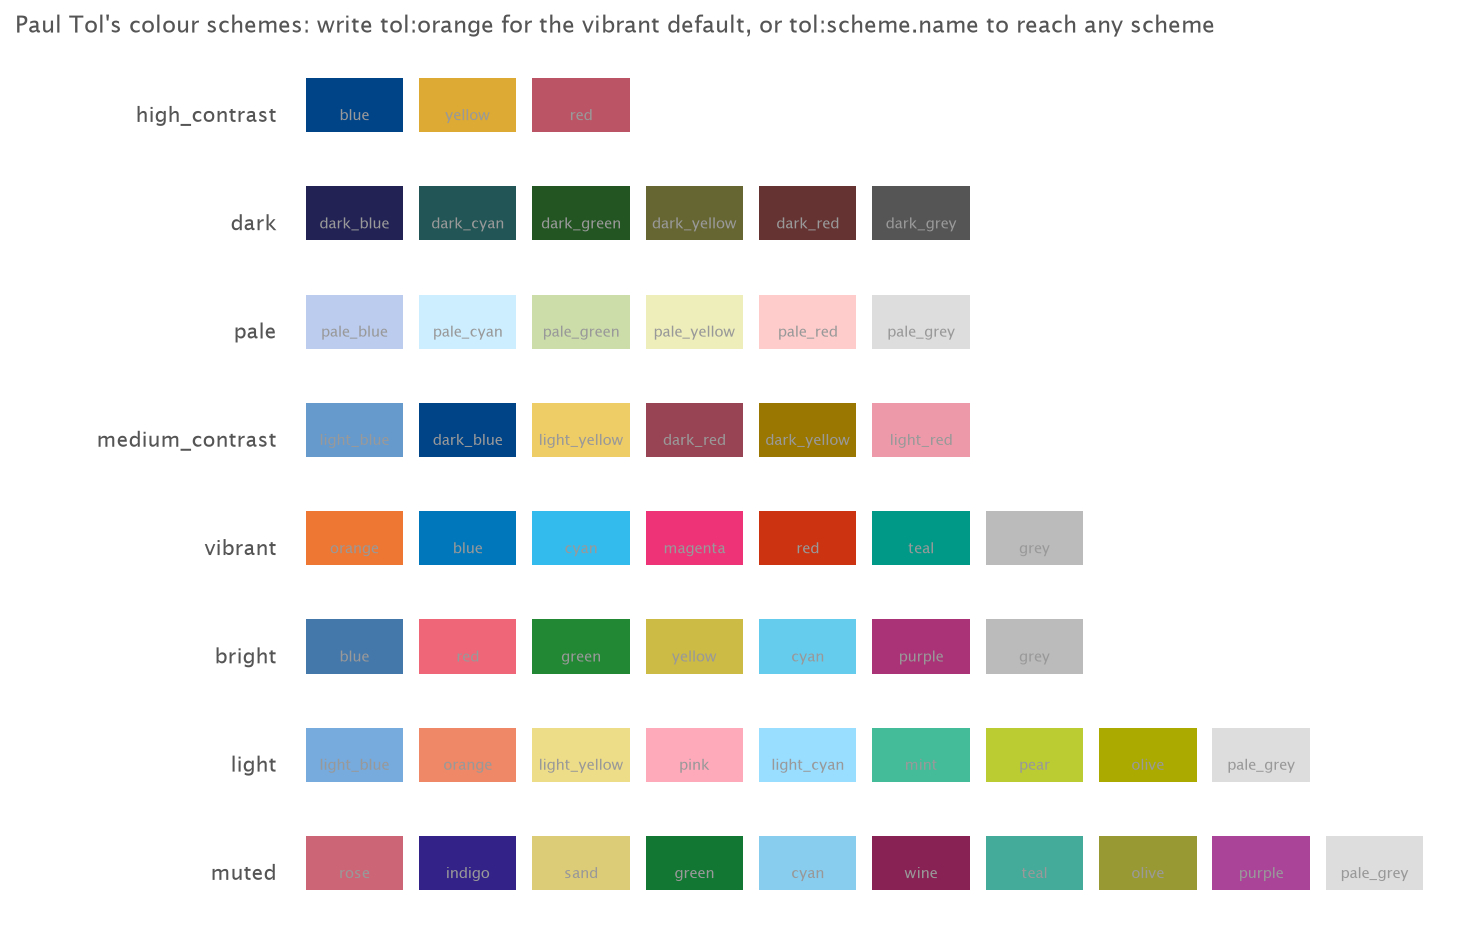
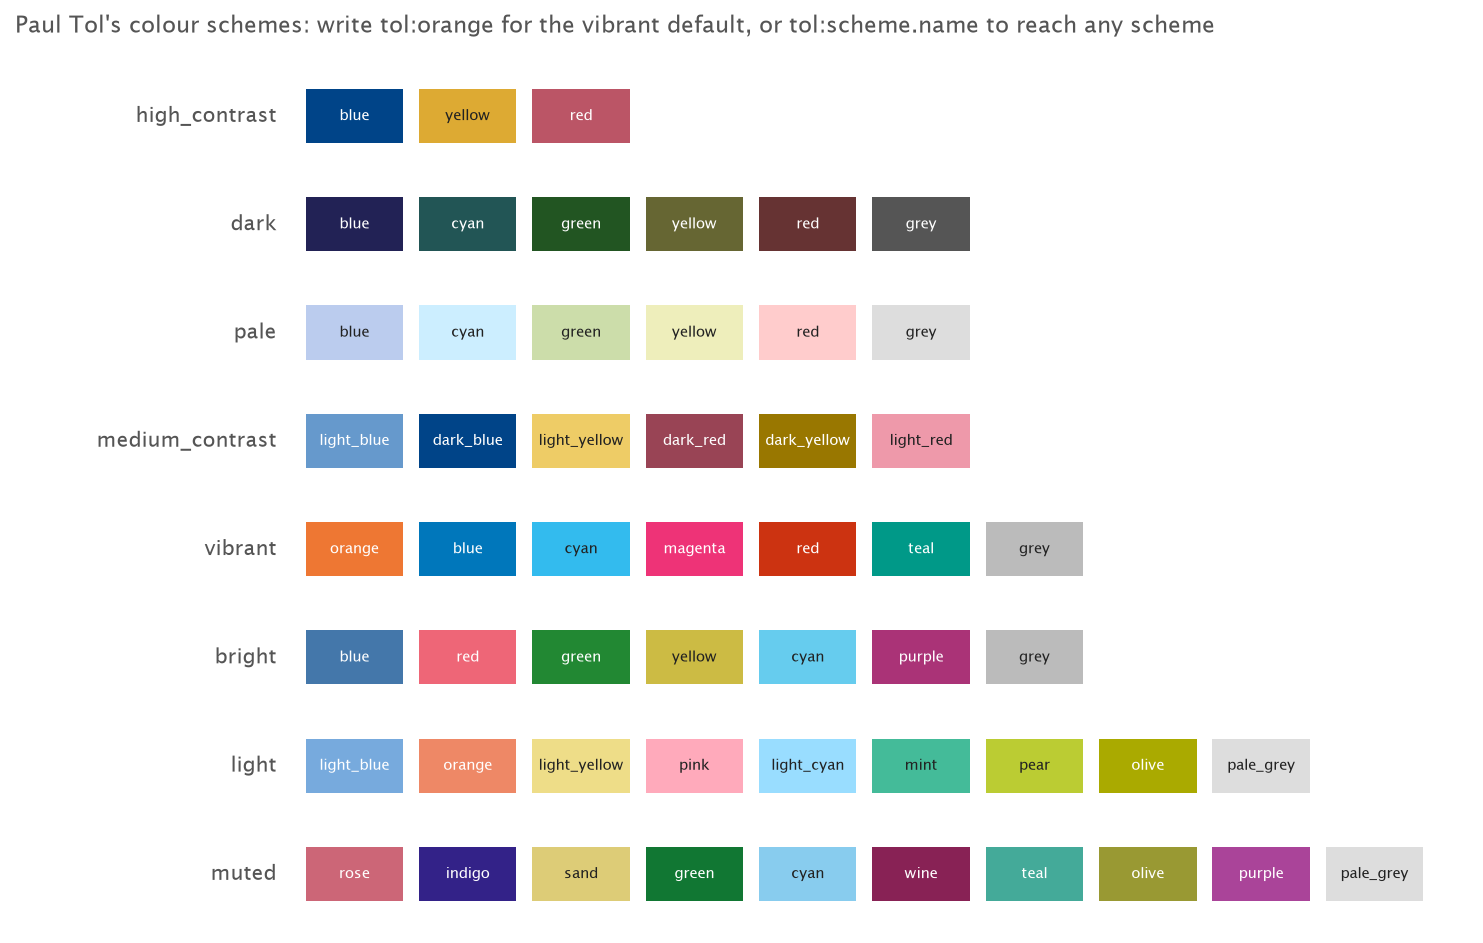
docs: center swatch labels with APCA-chosen contrast
Center each colour name inside its swatch, horizontally and vertically,
and pick white or near-black label ink by whichever has the stronger
APCA lightness contrast on that colour, so every label stays legible.

Claude-Session: https://claude.ai/code/session_01CDqPgu8AcjrT7siKYivTWR

diff --git a/examples/gallery.py b/examples/gallery.py
@@ -233,6 +233,39 @@ def small_multiples_grid() -> None:
     plt.close(fig)
 
 
+def _relative_luminance(rgb: tuple[int, int, int]) -> float:
+    r, g, b = (channel / 255 for channel in rgb)
+    y = 0.2126729 * r**2.4 + 0.7151522 * g**2.4 + 0.0721750 * b**2.4
+    return y + (0.022 - y) ** 1.414 if y < 0.022 else y
+
+
+def _apca_lc(text: tuple[int, int, int], background: tuple[int, int, int]) -> float:
+    """Lightness contrast of `text` on `background`, by the APCA algorithm."""
+    text_y = _relative_luminance(text)
+    background_y = _relative_luminance(background)
+    if abs(background_y - text_y) < 0.0005:
+        return 0.0
+    if background_y > text_y:  # dark text on a light background
+        sapc = (background_y**0.56 - text_y**0.57) * 1.14
+        lc = 0.0 if sapc < 0.1 else sapc - 0.027
+    else:  # light text on a dark background
+        sapc = (background_y**0.65 - text_y**0.62) * 1.14
+        lc = 0.0 if sapc > -0.1 else sapc + 0.027
+    return lc * 100
+
+
+def _label_ink(hex_colour: str) -> str:
+    """White or near-black, whichever has the stronger APCA contrast on `hex_colour`."""
+    background = (
+        int(hex_colour[1:3], 16),
+        int(hex_colour[3:5], 16),
+        int(hex_colour[5:7], 16),
+    )
+    dark_lc = abs(_apca_lc((34, 34, 34), background))
+    light_lc = abs(_apca_lc((255, 255, 255), background))
+    return "#222222" if dark_lc >= light_lc else "#ffffff"
+
+
 def palette_swatches() -> None:
     """Render every Tol scheme as labelled swatches, a colour reference.
 
@@ -272,7 +305,7 @@ def palette_swatches() -> None:
         for i, (name, hex_colour) in enumerate(colours.items()):
             cx = x0 + i * cell
             ax.add_patch(
-                Rectangle((cx, y - 0.15), cell * 0.86, 0.5, facecolor=hex_colour, lw=0)
+                Rectangle((cx, y - 0.25), cell * 0.86, 0.5, facecolor=hex_colour, lw=0)
             )
             ax.text(
                 cx + cell * 0.43,
@@ -281,7 +314,7 @@ def palette_swatches() -> None:
                 ha="center",
                 va="center",
                 fontsize=7,
-                color=vzs.palettes.LINE_INK,
+                color=_label_ink(hex_colour),
             )
     fig.savefig(OUTPUT / "palettes.png", dpi=150, bbox_inches="tight")
     plt.close(fig)
